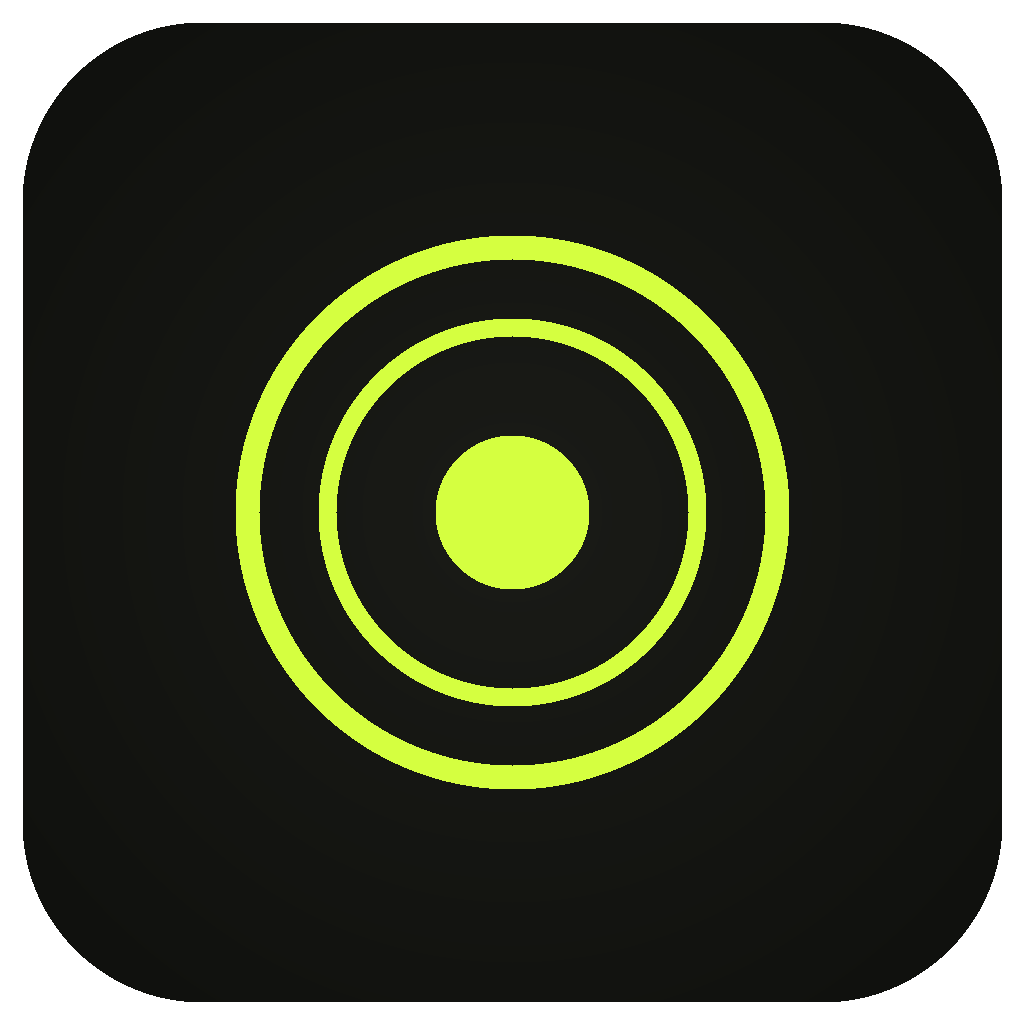
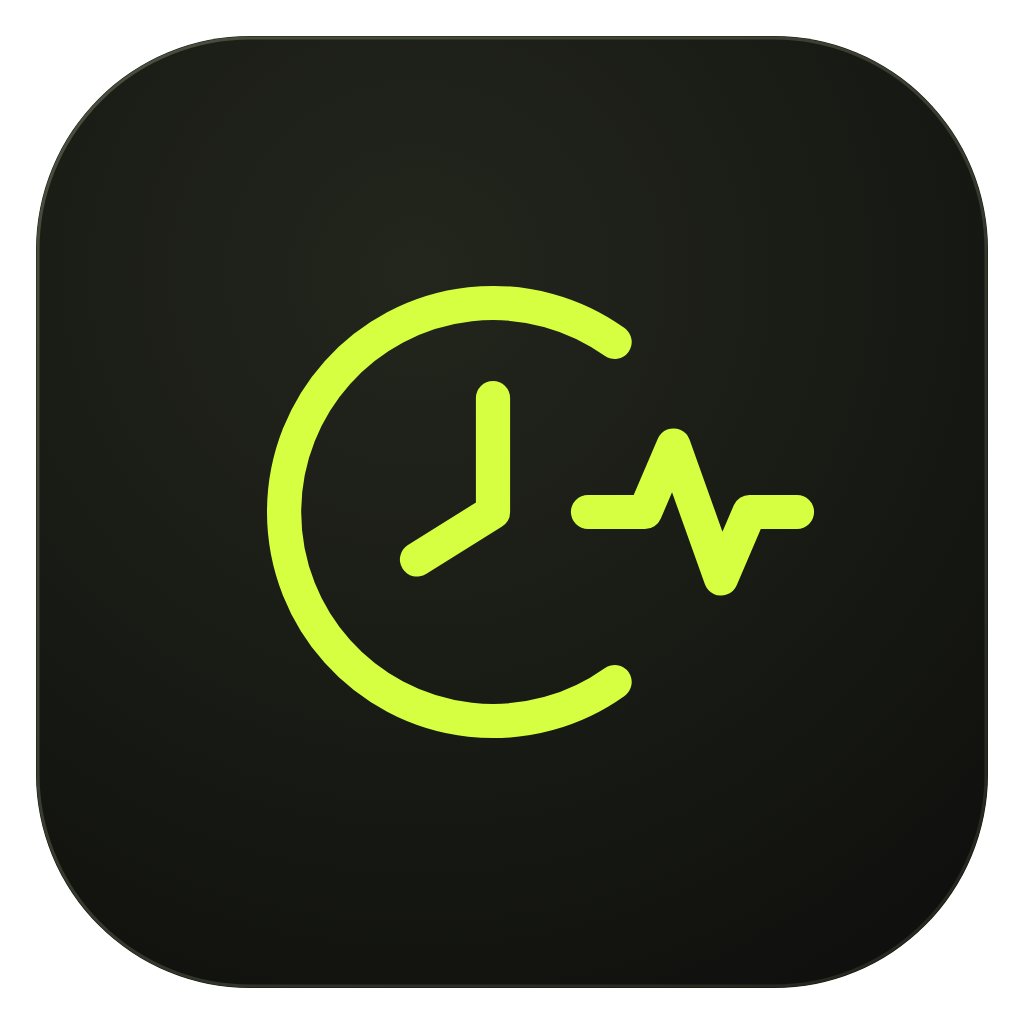
Apply Pulse Sync branding and refresh 1.11.0 packages without tests

Changed region(s): [[0.0, 0.0, 1.0, 1.0], [0.2188, 0.2188, 0.8125, 0.7812]]

diff --git a/src/index.html b/src/index.html
@@ -21,7 +21,7 @@
 <div class="titlebar"><span>AtomicClockSync</span><span>DESKTOP / <span id="platform">MAC</span></span></div>
 <div class="app-shell">
 <aside class="sidebar" data-expanded="false">
-  <a class="brand" href="#sync" aria-label="AtomicClockSync"><span class="brand-mark">◉</span><span>atomic<span class="brand-sub">CLOCK SYNC</span></span></a>
+  <a class="brand" href="#sync" aria-label="AtomicClockSync"><span class="brand-mark" aria-hidden="true"></span><span>atomic<span class="brand-sub">CLOCK SYNC</span></span></a>
   <button id="sidebar-toggle" class="sidebar-handle" type="button" aria-label="Expand navigation" aria-expanded="false" aria-controls="sidebar-navigation"><svg viewBox="0 0 16 16" aria-hidden="true"><path d="m6 4 4 4-4 4"/></svg></button>
   <nav id="sidebar-navigation" aria-label="Main navigation">
     <div class="nav-group" data-nav-group="signal">
@@ -337,7 +337,7 @@
     <div class="language-settings"><label for="language-select">Language</label><select id="language-select" aria-label="Interface language" translate="no"><option value="en">English</option><option value="it">Italiano</option><option value="fr">Français</option><option value="de">Deutsch</option><option value="es">Español</option><option value="ja">日本語</option></select><span>Saved on this device · applies immediately</span></div>
     <div class="settings-grid"><section class="panel settings-panel"><div class="section-heading"><h2>Audio output</h2><span class="chip" id="settings-station">DCF77</span></div><label for="audio-output">Device</label><div class="device-row"><select id="audio-output"><option value="default">Default system output</option></select><button id="refresh-devices" class="icon-button" aria-label="Refresh devices">↻</button></div><p class="muted-text">Use a built-in speaker or wired earphone. Bluetooth and AirPlay can add latency and filter the signal.</p><label for="wave-type">Audio profile <span id="settings-frequency">15,500 Hz</span></label><select id="wave-type"><option value="sine">Sine · standard</option><option id="dcf-gated-option" value="sine-gated">DCF77 · full pauses (experimental)</option><option value="square">Square · experimental</option></select><p class="muted-text" id="profile-hint">If DCF77 shows L3 then ERR, try full pauses. Square waves can produce more audible tones.</p><button id="test-output" class="secondary-button">♫ Test output · 1 second</button><p class="muted-text">Low-volume 440 Hz tone on the selected channel.</p><label for="latency-offset">Manual output advance (ms)</label><input id="latency-offset" type="number" min="-1000" max="1000" step="1" value="0"><p class="muted-text">Positive values advance the signal. Leave at 0 unless measured; reported output latency is already compensated.</p></section>
     <section class="panel settings-panel"><div class="section-heading"><h2>Time reference</h2><span class="chip" id="ntp-chip">SYSTEM</span></div><div class="settings-facts"><div><span>Source</span><strong id="ntp-source">System clock</strong></div><div><span>Measured offset</span><strong id="ntp-offset">Unavailable</strong></div><div><span>Estimated network uncertainty</span><strong id="ntp-uncertainty">Unavailable</strong></div><div><span>Last checked</span><strong id="ntp-last">Never</strong></div></div><button id="settings-sync" class="secondary-button">Check time via NTP ↻</button><p class="muted-text">PTB and Cloudflare. Correction applies within the app and does not change your computer clock. Network uncertainty excludes audio latency.</p><div class="privacy-note"><span class="signal-dot"></span> No telemetry · local data only</div></section></div>
-    <section class="panel about-panel"><span class="brand-mark">◉</span><div><h2>AtomicClockSync <span class="muted-text">1.11.0</span></h2><p>JavaScript + Electron · BPC, JJY, WWVB, DCF77 and MSF · Independent app inspired by Clock Wave.</p></div><div class="theme-control"><div class="theme-label"><label for="theme-select">Theme</label><span class="theme-swatches" aria-hidden="true"><i></i><i></i><i></i><i></i></span></div><select id="theme-select" aria-label="Interface theme"></select></div></section>
+    <section class="panel about-panel"><span class="brand-mark" aria-hidden="true"></span><div><h2>AtomicClockSync <span class="muted-text">1.11.0</span></h2><p>JavaScript + Electron · BPC, JJY, WWVB, DCF77 and MSF · Independent app inspired by Clock Wave.</p></div><div class="theme-control"><div class="theme-label"><label for="theme-select">Theme</label><span class="theme-swatches" aria-hidden="true"><i></i><i></i><i></i><i></i></span></div><select id="theme-select" aria-label="Interface theme"></select></div></section>
   </section>
   <section id="page-guide" class="page manual-page" aria-label="Guide" hidden>
     <aside class="panel manual-index"><div class="manual-index-heading"><span>APPLICATION MANUAL</span><h2>Contents</h2></div><nav id="manual-index" class="manual-index-list" aria-label="Manual chapters"></nav></aside>

diff --git a/src/styles.css b/src/styles.css
@@ -166,9 +166,14 @@ button,a,input,select,summary {
   letter-spacing:-1.5px;
 }
 .brand-mark {
-  font-size:35px;
+  display:inline-block;
+  width:40px;
+  height:40px;
+  flex-shrink:0;
   color:var(--accent-text);
-  line-height:1;
+  background-color:currentColor;
+  -webkit-mask:url('../assets/brand-mark.svg') center/contain no-repeat;
+  mask:url('../assets/brand-mark.svg') center/contain no-repeat;
 }
 .brand-sub {
   display:block;
@@ -1173,7 +1178,8 @@ input::placeholder,textarea::placeholder { color:var(--faint); opacity:1; }
   align-items:center;
 }
 .about-panel .brand-mark {
-  font-size:29px;
+  width:32px;
+  height:32px;
 }
 .about-panel p {
   color:var(--muted);
@@ -1209,7 +1215,7 @@ input::placeholder,textarea::placeholder { color:var(--faint); opacity:1; }
 .sidebar.is-expanded{width:236px;background:color-mix(in srgb,var(--bg),var(--panel) 20%);box-shadow:18px 0 45px -22px #0008}
 main{margin-left:72px;width:calc(100% - 72px)}
 .sidebar .brand{height:44px;min-height:44px;padding:0;gap:10px;overflow:hidden;white-space:nowrap}
-.sidebar .brand-mark{min-width:47px;text-align:center;font-size:35px;flex-shrink:0}
+.sidebar .brand-mark{width:47px;min-width:47px;height:44px;-webkit-mask-size:40px 40px;mask-size:40px 40px}
 .sidebar .brand>span:last-child{opacity:0;transform:translateX(-7px);transition:opacity .16s ease,transform .22s ease;min-width:135px;font-size:25px}
 .sidebar.is-expanded .brand>span:last-child{opacity:1;transform:none;transition-delay:.06s}
 .sidebar .brand-sub{font-size:7px;letter-spacing:2px}

diff --git a/scripts/stage-release.py b/scripts/stage-release.py
@@ -1,4 +1,4 @@
-"""Stage this exact build in an existing draft; never publish a release."""
+"""Stage a draft, or explicitly refresh an existing published release in place."""
 from pathlib import Path
 import hashlib
 import json
@@ -19,8 +19,9 @@ if tag != 'v' + version:
 if output('git', 'rev-parse', tag + '^{}') != output('git', 'rev-parse', 'HEAD'):
     raise SystemExit('Release tag must point to the exact workflow commit.')
 release = json.loads(output('gh', 'release', 'view', tag, '--json', 'isDraft,tagName'))
-if not release['isDraft'] or release['tagName'] != tag:
-    raise SystemExit('Only an existing matching draft release can be updated.')
+replace_published = os.environ.get('REPLACE_PUBLISHED_RELEASE') == '1'
+if release['tagName'] != tag or (not release['isDraft'] and not replace_published):
+    raise SystemExit('Published releases require explicit REPLACE_PUBLISHED_RELEASE=1.')
 prefix = 'AtomicClockSync-' + version
 names = {prefix + suffix for suffix in (
     '-arm64-mac.zip', '-windows-x64-portable.exe', '-linux-x86_64.AppImage',
@@ -28,10 +29,25 @@ names = {prefix + suffix for suffix in (
 files = {file.name for file in Path('release').iterdir() if file.is_file()}
 if files != names | {'SHA256SUMS.txt'}:
     raise SystemExit('Expected exactly five individual packages and checksum manifest.')
+checksums = {}
 for line in Path('release/SHA256SUMS.txt').read_text().splitlines():
     digest, name = line.split('  ', 1)
-    if name not in names or hashlib.sha256(Path('release', name).read_bytes()).hexdigest() != digest:
+    if name not in names or name in checksums:
+        raise SystemExit('Unexpected or duplicate checksum entry: ' + name)
+    actual = hashlib.sha256()
+    with Path('release', name).open('rb') as stream:
+        for chunk in iter(lambda: stream.read(1024 * 1024), b''):
+            actual.update(chunk)
+    if actual.hexdigest() != digest:
         raise SystemExit('Checksum mismatch: ' + name)
+    checksums[name] = digest
+if set(checksums) != names:
+    raise SystemExit('Checksum manifest must cover all five platform packages.')
 subprocess.run(['gh', 'release', 'upload', tag, *[str(Path('release', name)) for name in sorted(names)],
-                'release/SHA256SUMS.txt', '--clobber'], check=True)
-print('All five packages and checksums staged; release remains a draft.')
+                '--clobber'], check=True)
+subprocess.run(['gh', 'release', 'upload', tag, 'release/SHA256SUMS.txt', '--clobber'], check=True)
+if replace_published and not release['isDraft']:
+    subprocess.run(['gh', 'release', 'edit', tag, '--notes-file', 'docs/RELEASE_CURRENT.md'], check=True)
+    print('Existing published release refreshed with five packages, checksums and notes.')
+else:
+    print('All five packages and checksums staged; release remains a draft.')

diff --git a/scripts/build-bluetooth.py b/scripts/build-bluetooth.py
@@ -2,6 +2,7 @@
 import importlib.metadata
 import hashlib
 import json
+import os
 from pathlib import Path
 import shutil
 import subprocess
@@ -36,5 +37,6 @@ for distribution in importlib.metadata.distributions():
                 destination.parent.mkdir(exist_ok=True)
                 shutil.copy2(source, destination)
 executable = output / ("atomic-bluetooth.exe" if platform == "win32" else "atomic-bluetooth")
-subprocess.run([str(executable), "--self-test"], check=True)
+if os.environ.get('ATOMIC_SKIP_TESTS') != '1':
+    subprocess.run([str(executable), "--self-test"], check=True)
 print(f"Bluetooth worker ready: {output}")

diff --git a/docs/RELEASE_CURRENT.md b/docs/RELEASE_CURRENT.md
@@ -2,9 +2,10 @@ Release 1.11.0 · 27 October 2026
 
 AtomicClockSync 1.11.0 adds **Bluetooth time synchronization** beside radio transmission in **Synchronize**.
 
-Updated in place on 27 October 2026: the same 1.11.0 package filenames now include six additional themes. Download the refreshed packages and verify them with the updated **SHA256SUMS.txt**.
+Updated in place on 27 October 2026: the same 1.11.0 package filenames now include six additional themes and the **Pulse Sync** identity. Download the refreshed packages and verify them with the updated **SHA256SUMS.txt**.
 
 - One compact Bluetooth button and a dialog translated into English, Italian, French, German, Spanish and Japanese.
+- **Pulse Sync** logo in the compact/expanded sidebar and Settings, following the selected theme accent, with a matching lime-on-dark app icon and macOS Dock icon.
 - Fifteen themes in **Settings → Theme**, including **Soft Sage**, **Powder Blue**, **Soft Lavender**, **Warm Sand**, **Rainbow** and **Rainbow Soft**. All six additions retain the original dark base. Rainbow assigns blue to actions, violet to data, mint to the reference and confirmations, orange to transmission/progress and pink to errors, with lighter text variants for readability.
 - Always-available **Open logs** popup with refresh and **Copy log**, during attempts and after success or failure. The last 400 technical events remain in memory until the app closes; device addresses, settings payloads and raw driver messages are excluded.
 - Unified synchronization history includes persistent Bluetooth attempts with watch/model/module, duration, time reference and distinct sent/failed/cancelled/uncertain outcomes. Bluetooth details are read-only and remain separate from radio GET/ERR statistics. Interrupted pending attempts are preserved on restart.
@@ -20,5 +21,7 @@ Updated in place on 27 October 2026: the same 1.11.0 package filenames now inclu
 **Downloads:** macOS Apple Silicon ZIP, Windows 11 x64 portable EXE, Linux x64 AppImage/DEB/RPM. Packages are unsigned or locally ad-hoc signed and the macOS app is not notarized. Verify downloads with **SHA256SUMS.txt**.
 
 **Validation:** 105 JavaScript tests and 28 Python Bluetooth tests; native Electron checks for the Bluetooth dialog, six-language illustrated Guide, navigation and desktop/audio behavior. Theme checks cover all fifteen palettes, text contrast, persistence, offline reference state, radio outcomes and uninterrupted muted transmission. Bluetooth UI/protocol tests substitute hardware; physical validation is limited to the watch updates reported above.
+
+This branding-only package refresh does not rerun test suites or runtime self-tests; packaged file contents and SHA-256 checksums are checked during publication.
 
 See the [Bluetooth guide](https://github.com/Gladiak/atomicClockSync/blob/main/docs/BLUETOOTH.md), [model catalogue](https://github.com/Gladiak/atomicClockSync/blob/main/docs/BLUETOOTH_MODELS.md) and [changelog](https://github.com/Gladiak/atomicClockSync/blob/main/docs/RELEASE_NOTES.md).

diff --git a/README.md b/README.md
@@ -184,7 +184,7 @@ A normal audio output cannot directly generate the longwave radio carrier expect
 
 ## Downloads and platform status
 
-Current version: **1.11.0**, refreshed on 27 October 2026 with six additional themes. The individual packages and updated checksums are available in [GitHub Releases](https://github.com/Gladiak/atomicClockSync/releases/tag/v1.11.0), under the same filenames and version number. The 1.11.0 packages are:
+Current version: **1.11.0**, refreshed on 27 October 2026 with six additional themes and the Pulse Sync logo/app icon. The individual packages and updated checksums are available in [GitHub Releases](https://github.com/Gladiak/atomicClockSync/releases/tag/v1.11.0), under the same filenames and version number. The 1.11.0 packages are:
 
 | Package | Contents | Status |
 | --- | --- | --- |
@@ -302,6 +302,8 @@ ISS source data are cached separately in `iss-cache.json` inside the same app da
 NTP checks contact `ptbtime1.ptb.de`, `ptbtime2.ptb.de` and `time.cloudflare.com`. They adjust the time reference inside the app, not the operating system clock. NTP uses UDP/123 without NTS authentication. Offline use is available with the system clock.
 
 ## Project structure
+
+The Pulse Sync identity combines a clock and a radio pulse. The sidebar and Settings use `assets/brand-mark.svg` in the selected theme accent; the app icon keeps its lime-on-dark palette. Run `npm run build:icon` to regenerate `assets/icon.svg` and the 1024 × 1024 `assets/icon.png` from that shared vector mark using the project's Electron runtime.
 
 ```text
 electron/   Native window, isolated preload, lifecycle and NTP

diff --git a/docs/RELEASE_NOTES.md b/docs/RELEASE_NOTES.md
@@ -4,7 +4,9 @@
 
 Released on 27 October 2026.
 
-Updated in place on 27 October 2026: the downloadable 1.11.0 packages and SHA-256 checksums are refreshed with the six new themes, keeping the same filenames and version number.
+Updated in place on 27 October 2026: the downloadable 1.11.0 packages and SHA-256 checksums are refreshed with the six new themes and Pulse Sync identity, keeping the same filenames and version number.
+
+- Applied the Pulse Sync clock-and-radio-pulse mark to the compact/expanded sidebar and Settings, with theme-aware accents, a matching 1024 px lime app icon and the macOS Dock icon. The icon is regenerated from the shared SVG mark with `npm run build:icon`. This branding-only package refresh skips test suites and runtime self-tests, while retaining packaged-file and checksum checks.
 
 - Added Soft Sage, Powder Blue, Soft Lavender and Warm Sand pastel accents on the original dark surfaces, plus Rainbow and Rainbow Soft with stable color roles for actions, data, reference/confirmation, transmission/progress and errors. All fifteen themes are localized, persist independently of watch settings and can change during transmission. Desktop checks cover contrast, dark surfaces, semantic colors, offline reference state, GET/ERR history and muted audio isolation.
 

diff --git a/docs/USAGE.en.md b/docs/USAGE.en.md
@@ -8,7 +8,7 @@ AtomicClockSync is a **JavaScript and Electron desktop app** that synchronizes c
 
 ## Ready-to-use applications
 
-Current version: **1.11.0**, refreshed on 27 October 2026 to include six additional themes. Download the individual packages and updated checksums from [GitHub Releases](https://github.com/Gladiak/atomicClockSync/releases/tag/v1.11.0); the filenames and version number are unchanged.
+Current version: **1.11.0**, refreshed on 27 October 2026 to include six additional themes and the Pulse Sync logo/app icon. Download the individual packages and updated checksums from [GitHub Releases](https://github.com/Gladiak/atomicClockSync/releases/tag/v1.11.0); the filenames and version number are unchanged.
 
 - macOS Apple Silicon: `release/mac-arm64/AtomicClockSync.app` or `release/AtomicClockSync-1.11.0-arm64-mac.zip`.
 - Windows x64 portable: `release/AtomicClockSync-1.11.0-windows-x64-portable.exe`.
